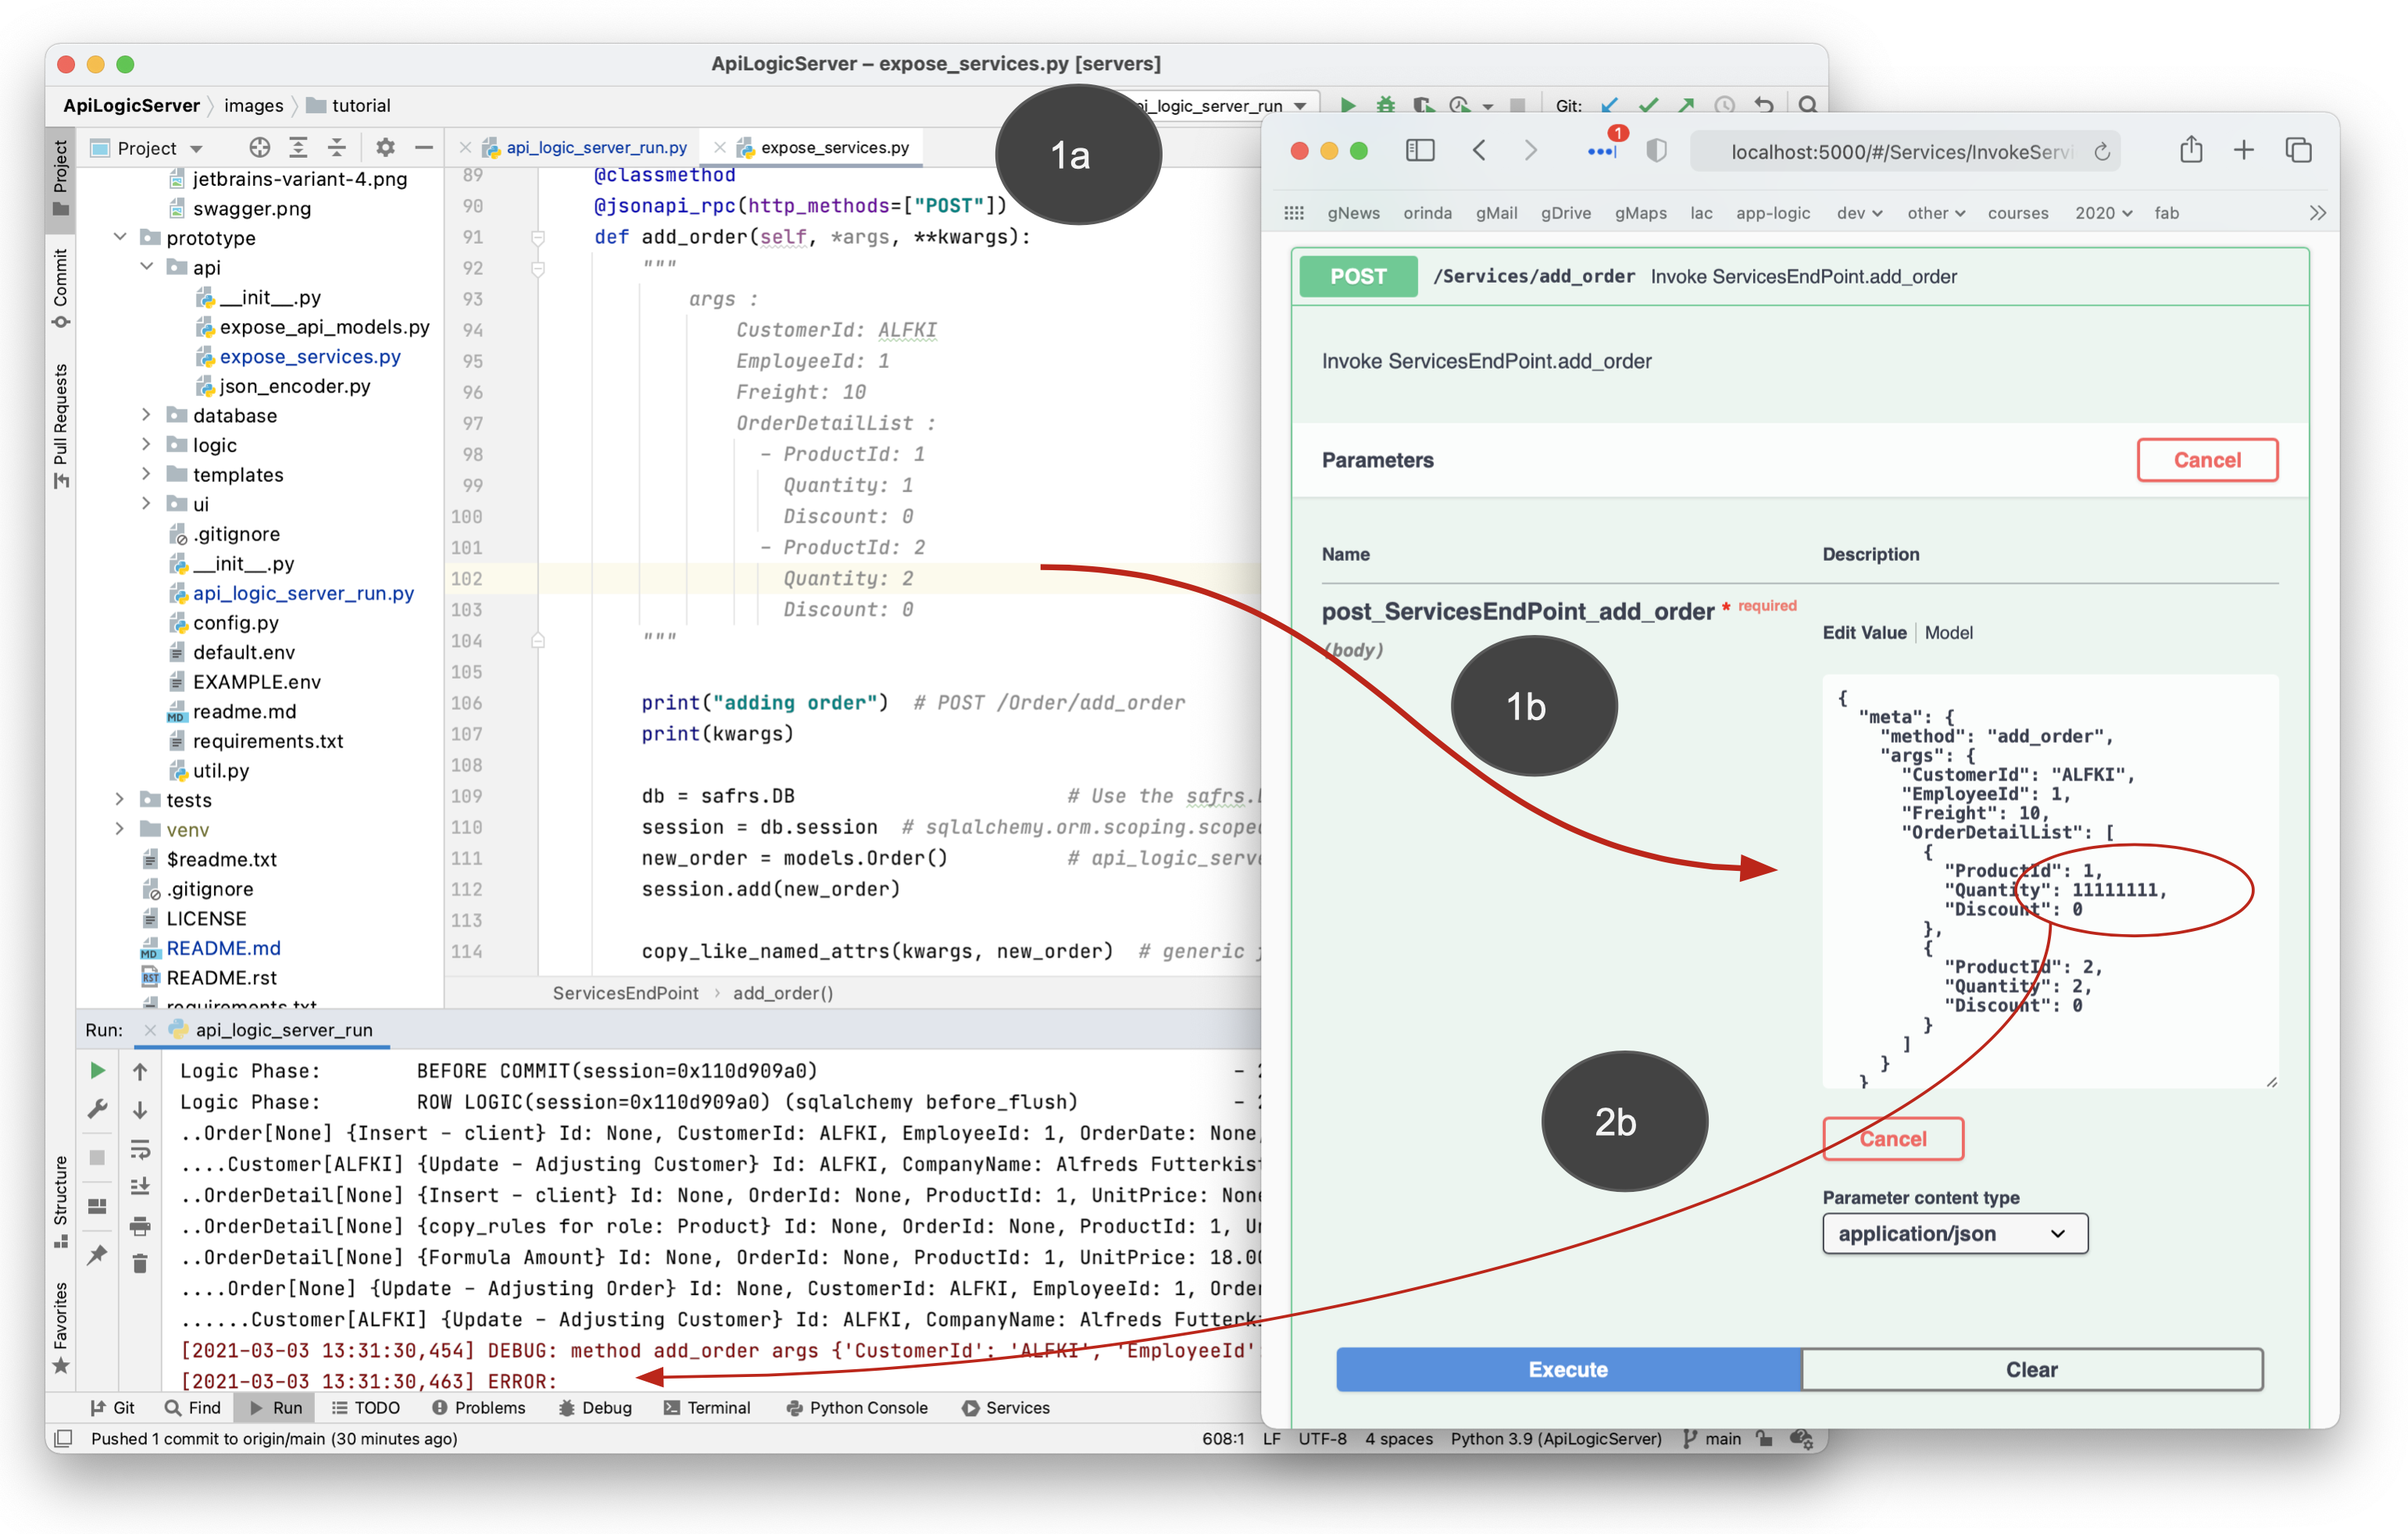
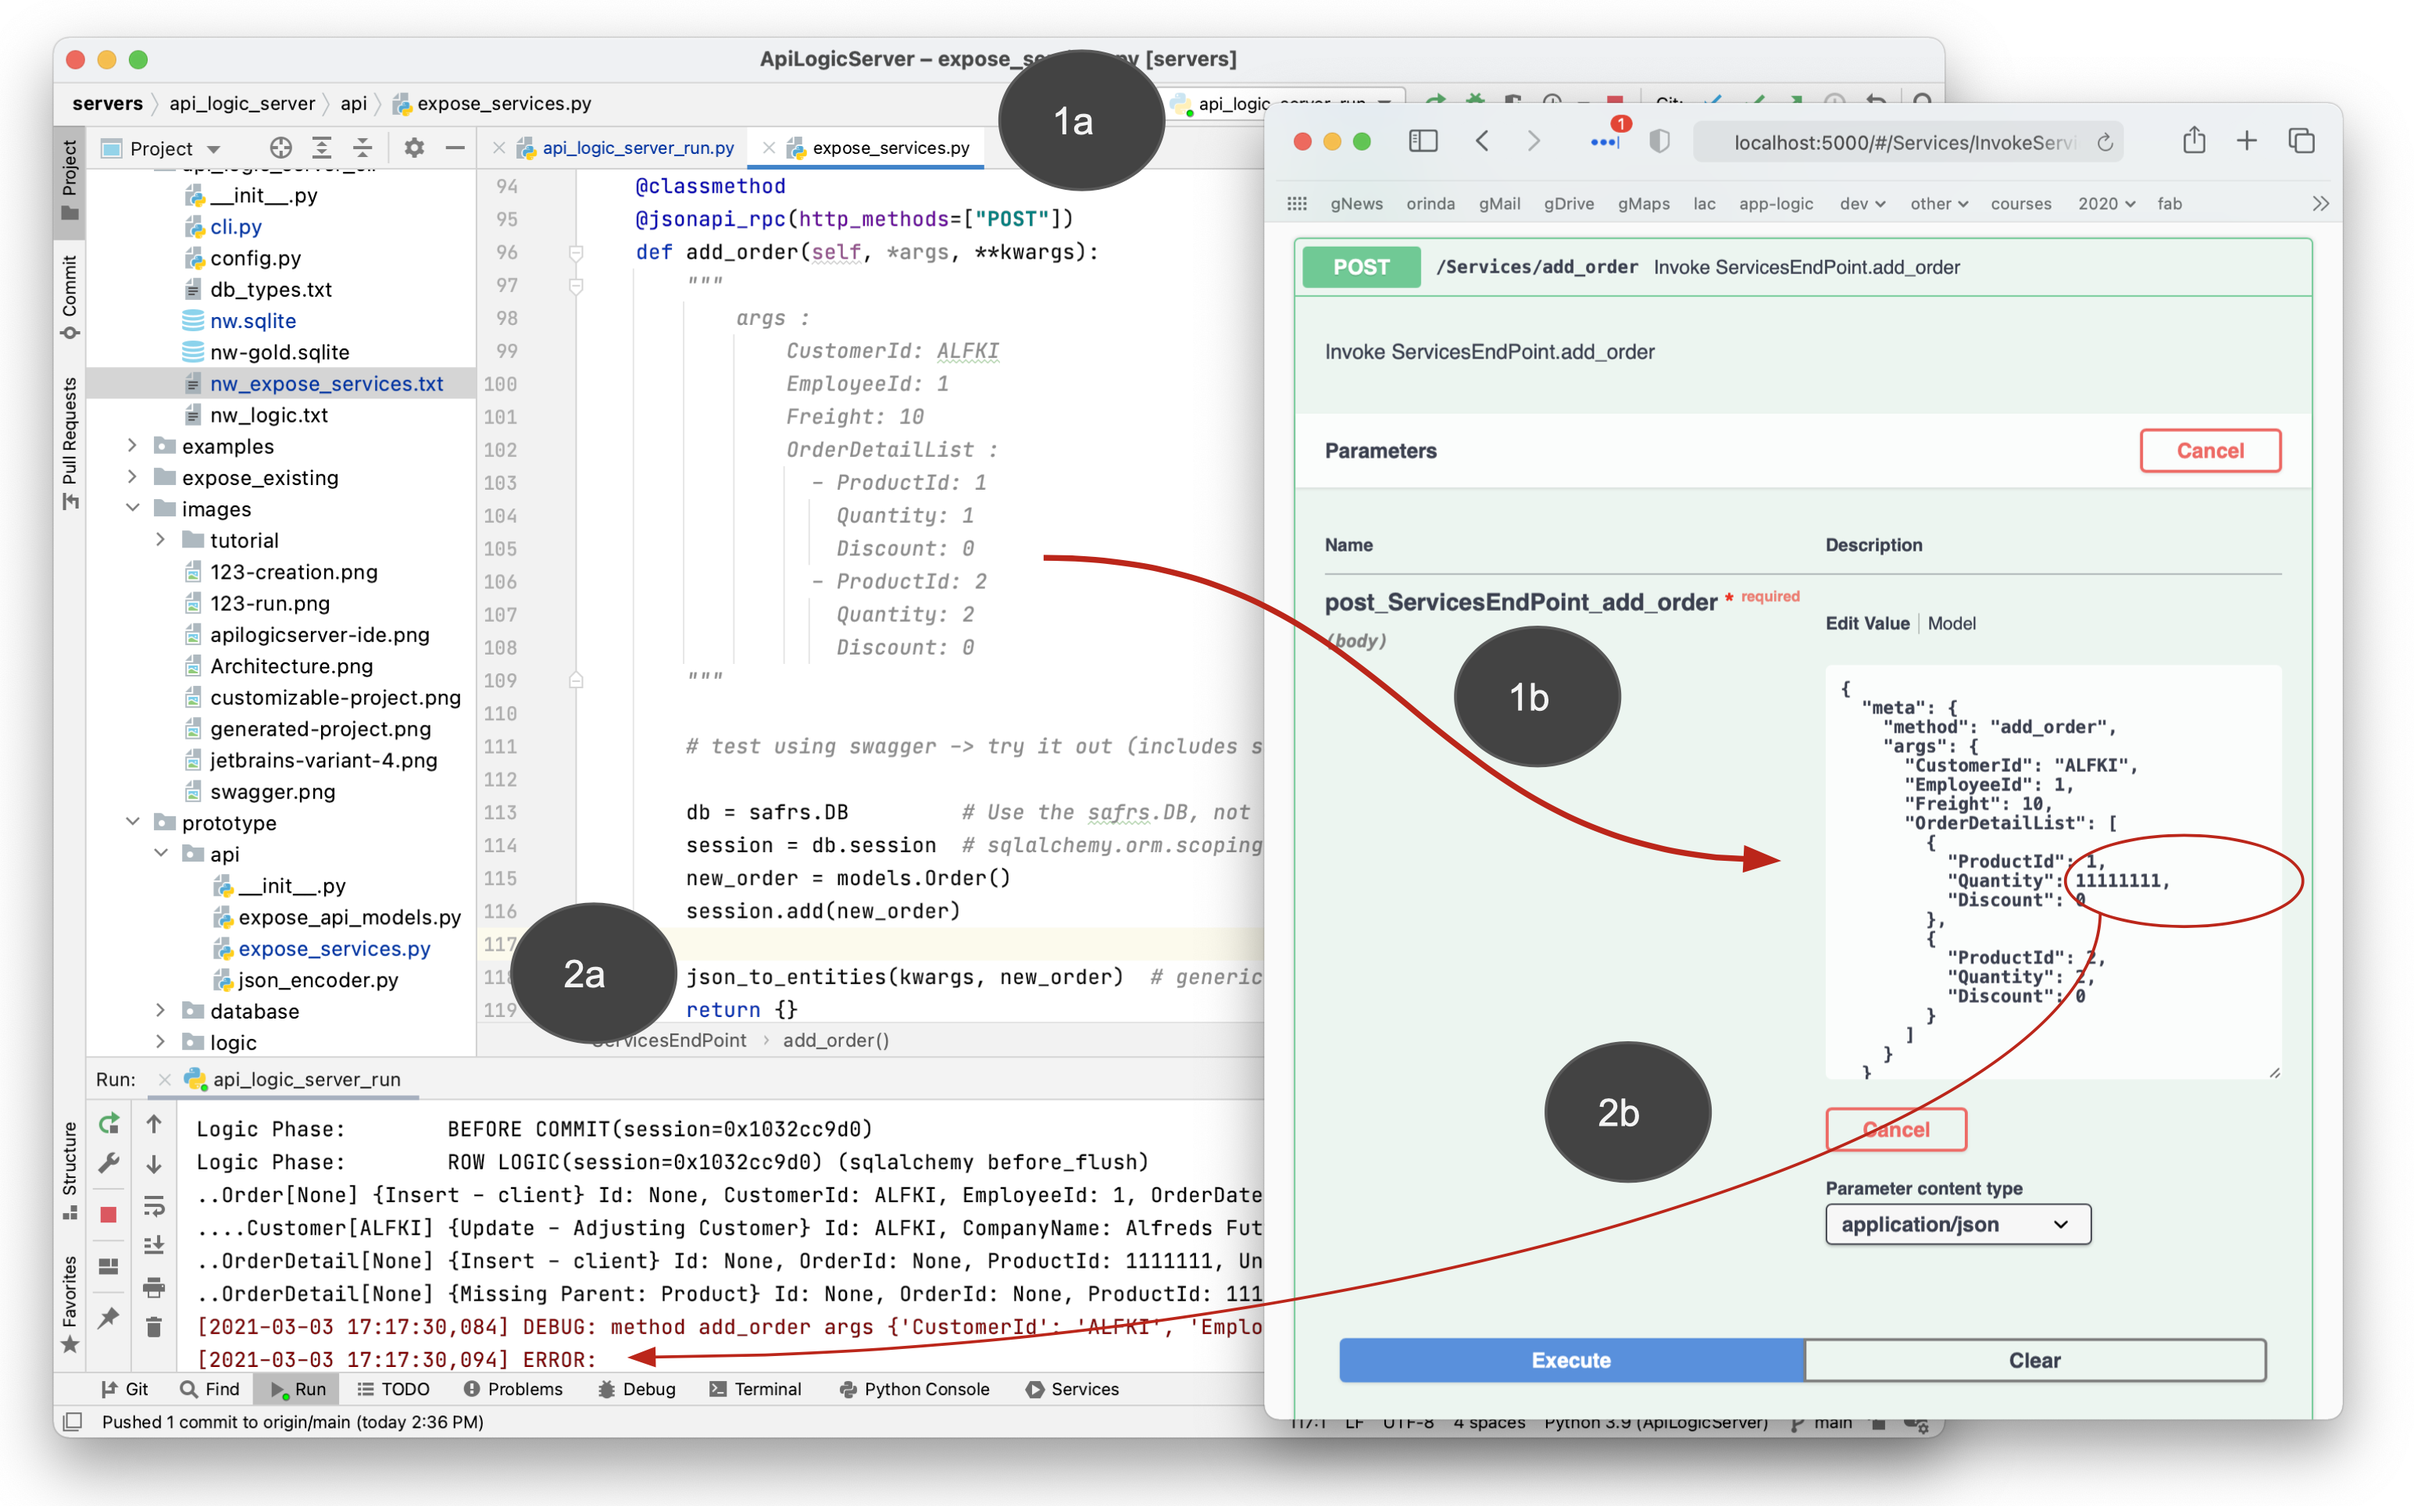
Version 1.4.9 - Services.

diff --git a/api_logic_server_cli/cli.py b/api_logic_server_cli/cli.py
@@ -738,6 +738,7 @@ def clone_prototype_project(project_name: str, from_git: str, msg: str):
     :param from_git: name of git project to clone (blank for default)
     :return: result of cmd
     """
+    cloned_from = from_git
     remove_project_debug = True
     if remove_project_debug:
         delete_dir(realpath(project_name), "1.")
@@ -756,13 +757,14 @@ def clone_prototype_project(project_name: str, from_git: str, msg: str):
             else:
                 from_dir = code_loc + "/prototype"
         print(f'{msg} copy {from_dir} -> {project_name}')
+        cloned_from = from_dir
         shutil.copytree(from_dir, project_name)
 
     replace_string_in_file(search_for="creation-date",
                            replace_with=str(datetime.datetime.now()),
                            in_file=f'{project_name}/readme.md')
     replace_string_in_file(search_for="cloned-from",
-                           replace_with=from_git,
+                           replace_with=cloned_from,
                            in_file=f'{project_name}/readme.md')
     pass
 
@@ -854,8 +856,8 @@ def append_logic_with_nw_logic(project_name):
 
 def replace_expose_rpcs_with_nw_expose_rpcs(project_name):
     """ replace api/expose_rpcs with nw version """
-    rpcs_file = open(project_name + '/api/expose_rpcs.py', 'w')
-    nw_expose_rpcs_file = open(os.path.dirname(os.path.realpath(__file__)) + "/nw_expose_rpcs.txt")
+    rpcs_file = open(project_name + '/api/expose_services.py', 'w')
+    nw_expose_rpcs_file = open(os.path.dirname(os.path.realpath(__file__)) + "/nw_expose_services.txt")
     nw_expose_rpcs = nw_expose_rpcs_file.read()
     rpcs_file.write(nw_expose_rpcs)
     rpcs_file.close()
@@ -1010,8 +1012,8 @@ def api_logic_server(project_name: str, db_url: str, host: str, not_exposed: str
     write_expose_api_models(abs_project_name, generate_from_model.result_apis)
 
     print("8. Update api_logic_server_run.py, config.py and ui/basic_web_app/config.py with project_name and db_url")
-    replace_string_in_file(search_for="replace_project_name",
-                           replace_with=os.path.basename(project_name),
+    replace_string_in_file(search_for="\"api_logic_server\"",
+                           replace_with='"' + os.path.basename(project_name) + '"',
                            in_file=f'{abs_project_name}/api_logic_server_run.py')
     replace_string_in_file(search_for="replace_db_url",
                            replace_with=get_os_url(abs_db_url),
@@ -1084,7 +1086,7 @@ def version(ctx):
     click.echo(
         click.style(
             f'Recent Changes:\n'
-            "\t02/27/2021 - 01.04.09: Cleanup main api_run, prelim RPCs\n"
+            "\t02/27/2021 - 01.04.09: Services, cleanup main api_run\n"
             "\t02/23/2021 - 01.04.08: Minor - proper log level for APIs\n"
             "\t02/20/2021 - 01.04.07: Tutorial, Logic Bank 0.9.4 (bad warning message)\n"
             "\t02/15/2021 - 01.04.06: Tutorial\n"

diff --git a/prototype/api_logic_server_run.py b/prototype/api_logic_server_run.py
@@ -17,11 +17,11 @@ from logic_bank.exec_row_logic.logic_row import LogicRow
 from sqlalchemy.ext.declarative import declarative_base
 from sqlalchemy.orm import Session
 
-from api import expose_api_models, expose_rpcs
+from api import expose_api_models, expose_services
 from logic import logic_bank
 
 (did_fix_path, sys_env_info) = \
-    logic_bank_utils.add_python_path(project_dir="replace_project_name", my_file=__file__)
+    logic_bank_utils.add_python_path(project_dir="api_logic_server", my_file=__file__)
 
 from flask import render_template, request, jsonify, Flask
 from safrs import ValidationError, SAFRSBase
@@ -75,7 +75,10 @@ def create_app(config_filename=None, host="localhost"):
     print("app/__init__#create_app - got session: " + str(session))
 
     def constraint_handler(message: str, constraint: object, logic_row: LogicRow):
-        detail = {"model": logic_row.name, "error_attributes": constraint.error_attributes}
+        if constraint.error_attributes:
+            detail = {"model": logic_row.name, "error_attributes": constraint.error_attributes}
+        else:
+            detail = {"model": logic_row.name}
         raise ValidationErrorExt(message= message, detail=detail)
 
     LogicBank.activate(session=session, activator=logic_bank.declare_logic, constraint_event=constraint_handler)
@@ -83,11 +86,12 @@ def create_app(config_filename=None, host="localhost"):
     with flask_app.app_context():
         db.init_app(flask_app)
         safrs_api = expose_api_models.expose_models(flask_app, host)
-        expose_rpcs.expose_rpcs(flask_app, safrs_api)
+        expose_services.expose_services(flask_app, safrs_api)
         SAFRSBase._s_auto_commit = False
         session.close()
 
     return flask_app, safrs_api
+
 
 # import api as api  # database opened here, models & rpc's exposed (TBD)
 
@@ -112,6 +116,7 @@ def handle_exception(e: ValidationError):
 #        res['errorMessage'] = e.message if hasattr(e, 'message') else f'{e}'
 
     return res, 400
+
 
 @flask_app.after_request
 def after_request(response):

diff --git a/setup.py b/setup.py
@@ -52,7 +52,7 @@ setup(
               'expose_existing', 'expose_existing.sqlacodegen', 'expose_existing.sqlacodegen.sqlacodegen',
               'prototype', 'prototype.api', 'prototype.database', 'prototype.logic',
               'prototype.templates', 'prototype.ui'],
-    package_data={"api_logic_server_cli": ["nw.sqlite", "nw-gold.sqlite", "nw_logic.txt", "nw_expose_rpcs.txt"],
+    package_data={"api_logic_server_cli": ["nw.sqlite", "nw-gold.sqlite", "nw_logic.txt", "nw_expose_services.txt"],
                   "prototype": ["requirements.txt", "default.env", "EXAMPLE.env", "readme.md"],
                   'prototype.templates': ["index.html"]
                   },
@@ -88,7 +88,8 @@ setup(
         "Intended Audience :: Developers",
         "License :: OSI Approved :: BSD License",
         "Operating System :: OS Independent",
-        "Programming Language :: Python",
+        "Programming Language :: Python :: 3.9",
+        "Programming Language :: Python :: 3.8",
         "Topic :: Software Development :: Libraries :: Python Modules",
     ],
     python_requires="~=3.8"

diff --git a/prototype/api/expose_services.py b/prototype/api/expose_services.py
@@ -11,7 +11,7 @@ from database import models
 from database.db import Base
 
 
-def expose_rpcs(app, api):
+def expose_services(app, api):
     @app.route('/hello_world')
     def hello_world():  # test it with: http://localhost:5000/hello_world?user=ApiLogicServer
         """

diff --git a/prototype/readme.md b/prototype/readme.md
@@ -2,10 +2,12 @@
 
 Created: creation-date
 
-From Prototype: 1.0 (Jan 19, 2021)
+From Prototype: 1.1 (Mar 3, 2021)
 
 Clone from: cloned-from
 
+API Logic Server is based on the projects shown below.
+Consult their documentation for important information.
 
 ## SARFS JSON:Api Server
 
@@ -37,8 +39,24 @@ Use Logic Bank to govern SQLAlchemy update transaction logic - multi-table deriv
 *   **Python - control and extensibility,** using standard tools and techniques
 
 Logic Bank is based on SQLAlchemy - it handles `before_flush` events to enforce your logic.
+Your logic therefore applies to any SQLAlchemy-based access - JSON:Api, Flask App Builder, etc.
 
-    Edit your logic in: logic/logic_bank.py
+    Declare your logic in: logic/logic_bank.py
+
+
+## SQLAlchemy
+
+[Object Relational Mapping for Python](https://docs.sqlalchemy.org/en/13/).
+
+SQLAlchemy provides Python-friendly database access for Python.
+
+It is used by JSON:Api, Logic Bank, and Flask App Builder.
+
+SQLAlchemy processing is based on Python `model` classes,
+created automatically by API Logic Server from your database,
+and saved in the `database` directory.
+
+
 
 ## Basic Web App - Flask App Builder
 
@@ -50,7 +68,7 @@ This generated project also contains a basic web app
     Edit your pages in: ui/basic_web_app/app/view.py
 
 
-## Check it out
+# Check it out
 Install your projects' environment:
 ```
 cd <your project>
@@ -65,25 +83,9 @@ Then, run:
 
 * **Basic Web App -** [localhost:8080](/localhost:8080)
 
-## Source
+# Project Structure
 
->*Rules: [/logic/logic_bank.py](/logic/logic_bank.py)*  
-*Enhanced Json Decoder: [api/json_encode.py](api/json_encode.py)*  
-*SQLAlchemy Models: [/models](/database/models) (StoreModel: Custom endpoint)*  
-*Custom Column Types: [models/types](database/models/types)*  
-*Flask App: [/app](/app)*  
-*Enhanced Flask-Admin View: [/admin/admin_view_ext.py](/admin/admin_view_ext.py) (Display Validation Errors/ LogicBank Constraints)*  
-*Flask Admin Custom Types:[/admin/admin_model_converter_ext.py](/admin/admin_model_converter_ext.py)*  
-*Rules Exception Handler: [/logic/_init_.py](/logic/__init__.py)*  
-
-
-**User Email Validation:**
-
-<pre>        if "@" not in value:  raise ValidationError("Email Validation Error {}".format(value))</pre>
-
-**Rules:**
-
-<pre>        Rule.constraint(validate=StoreModel,as_condition=lambda row: 'X' not in row.name,
-                                                error_msg="Store Names({row.name}) should not  contain X")
-        Rule.count(StoreModel.item_count, as_count_of=ItemModel)
-        Rule.parent_check(validate=ItemModel, error_msg="no parent", enable=True)</pre>
+>*Logic: [/logic/logic_bank.py](/logic/logic_bank.py)*  
+*SQLAlchemy Models: [/database](/database/models.py)*  
+*Services: [/api](/api/expose_services.py)*  
+*Flask App: [/ui](/ui/basic_web_app/run.py)*  

diff --git a/README.md b/README.md
@@ -1,4 +1,7 @@
-[![Downloads](https://static.pepy.tech/personalized-badge/apilogicserver?period=month&units=international_system&left_color=black&right_color=orange&left_text=Downloads)](https://pepy.tech/project/apilogicserver)
+[![Downloads](https://pepy.tech/badge/apilogicserver)](https://pepy.tech/project/apilogicserver)
+[![Latest Version](https://img.shields.io/pypi/v/apilogicserver.svg)](https://pypi.python.org/pypi/apilogicserver/)
+[![Supported Python versions](https://img.shields.io/pypi/pyversions/apilogicserver.svg)](https://pypi.python.org/pypi/apilogicserver/)
+[![License: GPL v3](https://img.shields.io/badge/License-GPLv3-blue.svg)](https://www.gnu.org/licenses/gpl-3.0)
 
 # API Logic Server
 
@@ -194,7 +197,7 @@ These technologies are automatically created when you use ApiLogicServer:
 * [Instant Web Apps](https://dzone.com/articles/instant-db-web-apps) 
 
 ### Change Log
-02/27/2021 - 01.04.09: Cleanup main api_run, prelim RPCs
+02/27/2021 - 01.04.09: Services, cleanup main api_run
 
 02/23/2021 - 01.04.08: Minor - proper log level for APIs
 

diff --git a/README.rst b/README.rst
@@ -141,7 +141,7 @@ Many thanks to
 
 Change Log
 ----------
-02/27/2021 - 01.04.09: Cleanup main api_run, prelim RPCs
+02/27/2021 - 01.04.09: Services, cleanup main api_run
 
 02/23/2021 - 01.04.08: Minor - proper log level for APIs
 
